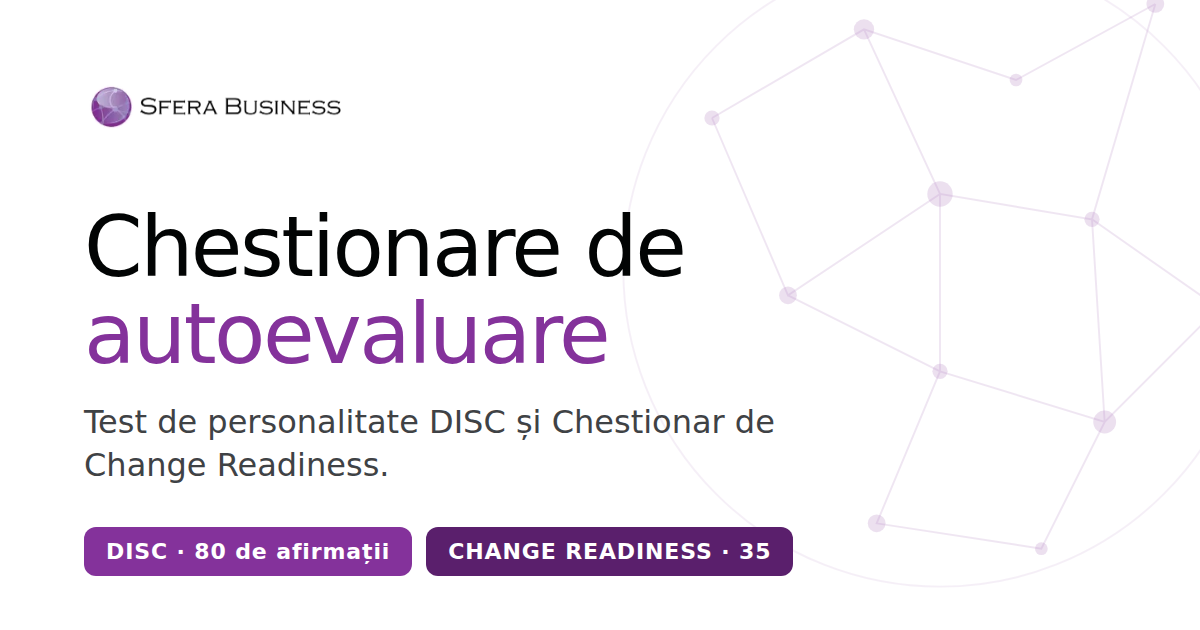
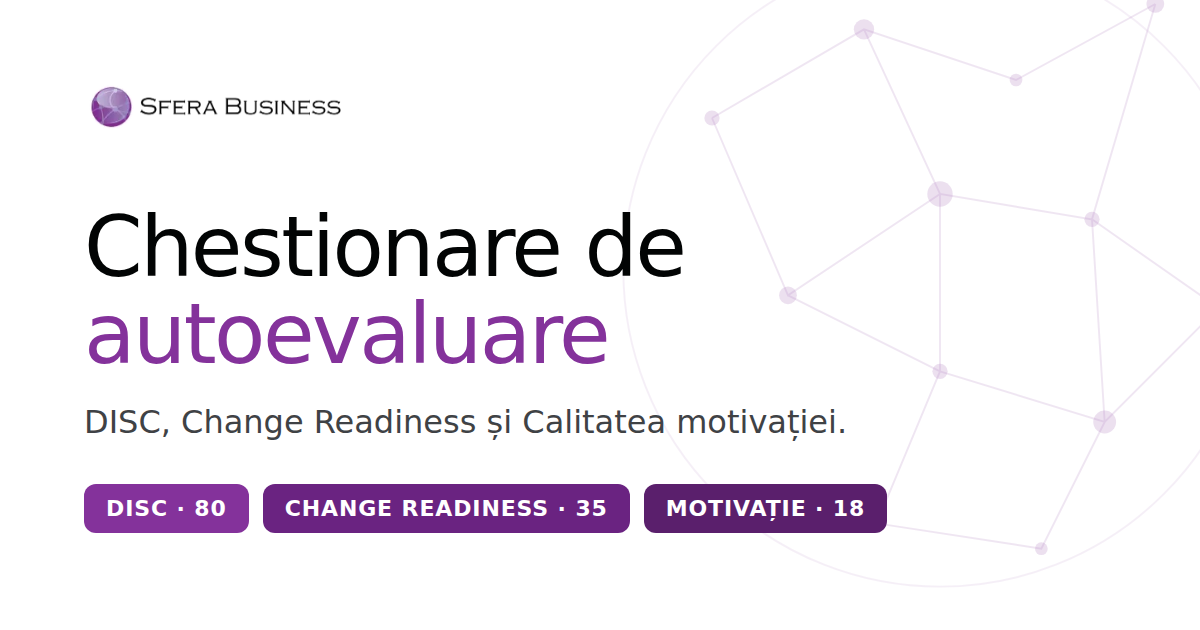
Add files via upload

Changed region(s): [[0.0617, 0.7238, 0.74, 0.9349], [0.0617, 0.6333, 0.7092, 0.6937]]

diff --git a/index.html b/index.html
@@ -5,10 +5,10 @@
 <meta name="viewport" content="width=device-width, initial-scale=1, viewport-fit=cover">
 <meta name="theme-color" content="#ffffff">
 <meta name="robots" content="noindex, nofollow">
-<meta name="description" content="Chestionare de autoevaluare Sfera Business: testul de personalitate DISC și chestionarul de Change Readiness.">
+<meta name="description" content="Chestionare de autoevaluare Sfera Business: DISC, Change Readiness și Calitatea motivației.">
 <meta property="og:type" content="website">
 <meta property="og:title" content="Chestionare de autoevaluare · Sfera Business">
-<meta property="og:description" content="Test de personalitate DISC și Chestionar de Change Readiness. Câte o afirmație pe pagină, cu rezultatele afișate imediat.">
+<meta property="og:description" content="DISC, Change Readiness și Calitatea motivației. Câte o afirmație pe pagină, cu rezultatele afișate imediat.">
 <meta property="og:image" content="https://adrianflorian.github.io/chestionare/og.png">
 <meta property="og:image:width" content="1200">
 <meta property="og:image:height" content="630">
@@ -280,9 +280,29 @@ footer.foot a:hover{color:var(--purple-dark);text-decoration:underline}
 }
 
 /* ---------- homepage ---------- */
-.home{text-align:center;max-width:880px;margin:0 auto}
+.home{text-align:center;max-width:1080px;margin:0 auto}
+body[data-screen=home] .app{max-width:1140px}
+/* coach */
+.coach{display:flex;align-items:center;gap:26px;max-width:760px;margin:0 auto 40px;text-align:left}
+.coach-photo{flex:none;position:relative;width:128px;height:128px;border:0;padding:0;background:none;cursor:pointer;border-radius:50%}
+.coach-photo img{width:128px;height:128px;border-radius:50%;object-fit:cover;display:block;box-shadow:0 0 0 5px #fff,0 0 0 8px var(--purple),0 14px 34px rgba(132,50,155,.28);transition:transform .35s cubic-bezier(.3,1.6,.5,1)}
+.coach-photo .tag{position:absolute;right:-10px;bottom:2px;background:#fff;border-radius:99px;font-size:20px;line-height:1;padding:6px 7px;box-shadow:0 4px 14px rgba(0,0,0,.14)}
+@media (hover:hover){.coach-photo:hover img{transform:rotate(-6deg) scale(1.04)}}
+.coach-photo.wiggle img{animation:wig .5s ease}
+@keyframes wig{0%,100%{transform:rotate(0)}25%{transform:rotate(-8deg)}60%{transform:rotate(6deg)}}
+.bubble{position:relative;flex:1;background:#fff;border:1px solid var(--line);border-radius:20px;padding:18px 22px 14px;box-shadow:0 12px 40px rgba(132,50,155,.09)}
+.bubble::before{content:"";position:absolute;left:-9px;top:50%;width:16px;height:16px;background:#fff;border-left:1px solid var(--line);border-bottom:1px solid var(--line);transform:translateY(-50%) rotate(45deg)}
+.bubble .qt{font-size:19px;line-height:1.4;color:var(--ink);font-weight:500;margin:0;min-height:2.8em;transition:opacity .25s}
+.bubble .qt.fade{opacity:0}
+.bubble .who{display:flex;align-items:center;justify-content:space-between;gap:12px;margin-top:10px;flex-wrap:wrap}
+.bubble .who b{color:var(--purple);font-size:14px}
+.bubble .who small{display:block;color:var(--muted);font-size:12px;font-weight:400}
+.next-q{border:1.5px solid var(--purple-200);background:var(--purple-50);color:var(--purple-deep);font-size:13px;font-weight:600;border-radius:99px;padding:6px 14px;cursor:pointer;transition:background .2s}
+@media (hover:hover){.next-q:hover{background:var(--purple-100)}}
+.next-q:focus-visible,.coach-photo:focus-visible{outline:3px solid rgba(132,50,155,.35);outline-offset:3px}
 .home .lead{margin-bottom:38px}
-.tests{display:grid;grid-template-columns:1fr 1fr;gap:20px;text-align:left}
+.tests{display:grid;grid-template-columns:repeat(3,1fr);gap:20px;text-align:left}
+@media (max-width:960px){.tests{grid-template-columns:1fr 1fr}}
 .tcard{display:flex;flex-direction:column;background:#fff;border:1px solid var(--line);border-radius:22px;overflow:hidden;text-decoration:none;color:var(--text);box-shadow:0 12px 40px rgba(132,50,155,.07);transition:transform .2s,box-shadow .2s,border-color .2s}
 @media (hover:hover){.tcard:hover{transform:translateY(-3px);box-shadow:0 18px 50px rgba(132,50,155,.14);border-color:var(--purple-200)}
 .tcard:hover .btn{background:var(--purple-dark);border-color:var(--purple-dark)}.tcard:hover .tri{transform:translateX(3px)}}
@@ -306,6 +326,10 @@ footer.foot a:hover{color:var(--purple-dark);text-decoration:underline}
 .privacy{font-size:13px;color:var(--muted);margin:28px auto 0;display:flex;justify-content:center;align-items:center;gap:8px}
 .privacy svg{color:var(--purple)}
 @media (max-width:720px){
+  .coach{flex-direction:column;gap:18px;text-align:center;margin-bottom:30px}
+  .bubble::before{left:50%;top:-9px;transform:translateX(-50%) rotate(135deg)}
+  .bubble .who{justify-content:center}
+  .bubble .qt{font-size:17px}
   .tests{grid-template-columns:1fr;gap:14px}
   .tviz{height:92px}
   .tviz .dash{top:46px}
@@ -344,6 +368,20 @@ footer.foot a:hover{color:var(--purple-dark);text-decoration:underline}
       <h1 id="homeTitle">Alegeți <span class="accent">chestionarul</span></h1>
       <p class="lead">Câte o afirmație pe pagină, cu rezultatele afișate imediat la final.</p>
 
+      <div class="coach">
+        <button class="coach-photo" id="coachPhoto" type="button" aria-label="Încă un citat de la Cătălin">
[1 lines of base64/hex data omitted]
+          <span class="tag" aria-hidden="true">💬</span>
+        </button>
+        <div class="bubble" aria-live="polite">
+          <p class="qt" id="quote">„Nu există răspunsuri greșite. Există doar răspunsuri date înainte de cafea.” ☕</p>
+          <div class="who">
+            <div><b>— Cătălin Stancu</b><small>Citate inventate, cu drag. Orice asemănare cu un training real e pur întâmplătoare.</small></div>
+            <button class="next-q" id="nextQuote" type="button">Încă unul ↻</button>
+          </div>
+        </div>
+      </div>
+
       <div class="tests">
         <a class="tcard" href="disc/" data-key="sfera-disc-v1" data-n="80">
           <div class="tviz" aria-hidden="true">
@@ -363,7 +401,7 @@ footer.foot a:hover{color:var(--purple-dark);text-decoration:underline}
           </div>
         </a>
 
-        <a class="tcard" href="change-readiness/" data-key="sfera-cr-v1" data-n="35">
+        <a class="tcard" href="change-readiness/" data-key="sfera-cr-v1" data-n="35" data-formal="1">
           <div class="tviz cr" aria-hidden="true">
             <span class="dash"></span>
             <i style="height:70px;opacity:.55"></i><i style="height:88px;opacity:.9"></i><i style="height:52px;opacity:.45"></i><i style="height:96px"></i><i style="height:62px;opacity:.6"></i><i style="height:80px;opacity:.8"></i><i style="height:44px;opacity:.4"></i>
@@ -375,6 +413,24 @@ footer.foot a:hover{color:var(--purple-dark);text-decoration:underline}
             <div class="tmeta">
               <span><svg width="16" height="16" viewBox="0 0 24 24" fill="none" stroke="currentColor" stroke-width="2" stroke-linecap="round" stroke-linejoin="round"><path d="M9 6h11M9 12h11M9 18h11M4 6h.01M4 12h.01M4 18h.01"/></svg>35 de afirmații</span>
               <span><svg width="16" height="16" viewBox="0 0 24 24" fill="none" stroke="currentColor" stroke-width="2" stroke-linecap="round" stroke-linejoin="round"><circle cx="12" cy="12" r="9"/><path d="M12 7v5l3 2"/></svg>5–7 minute</span>
+            </div>
+            <div class="tstatus"><span class="mini"><b></b></span><span class="stxt"></span></div>
+            <span class="btn primary"><span class="cta">Începeți chestionarul</span><span class="tri"></span></span>
+          </div>
+        </a>
+
+        <a class="tcard" href="motivatie/" data-key="sfera-mot-v1" data-n="18" data-formal="1">
+          <div class="tviz cr" aria-hidden="true">
+            <span class="dash"></span>
+            <i style="height:92px"></i><i style="height:80px;opacity:.85"></i><i style="height:70px;opacity:.72"></i><i style="height:52px;opacity:.58"></i><i style="height:60px;opacity:.48"></i><i style="height:30px;opacity:.35"></i>
+          </div>
+          <div class="tbody">
+            <div class="tkicker">Motivație</div>
+            <h2>Calitatea motivației</h2>
+            <p>De ce vă implicați în munca de acum. Profil pe 6 tipuri de motivație, conform teoriei auto-determinării.</p>
+            <div class="tmeta">
+              <span><svg width="16" height="16" viewBox="0 0 24 24" fill="none" stroke="currentColor" stroke-width="2" stroke-linecap="round" stroke-linejoin="round"><path d="M9 6h11M9 12h11M9 18h11M4 6h.01M4 12h.01M4 18h.01"/></svg>18 afirmații</span>
+              <span><svg width="16" height="16" viewBox="0 0 24 24" fill="none" stroke="currentColor" stroke-width="2" stroke-linecap="round" stroke-linejoin="round"><circle cx="12" cy="12" r="9"/><path d="M12 7v5l3 2"/></svg>3–5 minute</span>
             </div>
             <div class="tstatus"><span class="mini"><b></b></span><span class="stxt"></span></div>
             <span class="btn primary"><span class="cta">Începeți chestionarul</span><span class="tri"></span></span>
@@ -400,7 +456,7 @@ footer.foot a:hover{color:var(--purple-dark);text-decoration:underline}
     const n = s.answers.filter(v => v != null).length;
     if (n === 0) return;
     const st = card.querySelector(".tstatus"), cta = card.querySelector(".cta");
-    const formal = card.dataset.key === "sfera-cr-v1";
+    const formal = card.dataset.formal === "1";
     st.classList.add("show");
     st.querySelector(".mini b").style.width = (n / total * 100) + "%";
     if (s.done && n === total) {
@@ -411,6 +467,33 @@ footer.foot a:hover{color:var(--purple-dark);text-decoration:underline}
       cta.textContent = formal ? "Continuați" : "Continuă";
     }
   });
+})();
+
+(function(){
+  /* invented, affectionate quotes, clearly labelled as such on the page */
+  const QUOTES = [
+    "„Nu există răspunsuri greșite. Există doar răspunsuri date înainte de cafea.” ☕",
+    "„Schimbarea e singura constantă. În afară de pauza de prânz, care e sfântă.” 🥪",
+    "„Dacă ți-a ieșit «Dominant», felicitări. Acum lasă-i și pe ceilalți să vorbească.” 🎤",
+    "„Toleranța la ambiguitate se antrenează. Recomand instrucțiunile de montaj de la mobilă.” 🪛",
+    "„Motivația intrinsecă e când completezi chestionarul fără să te roage nimeni. Deci nu azi.” 😄",
+    "„Fii stabil ca un Wi-Fi bun: nu cădea exact când e mai mare nevoie de tine.” 📶",
+    "„Adaptabilitate înseamnă să zâmbești când ședința de 30 de minute ține două ore.” ⏰",
+    "„Sinceritatea e primul pas. Al doilea e să nu bifezi «5» la toate.” ✅",
+    "„Un lider adevărat știe când să vorbească și când să apese «Următoarea».” ▶",
+    "„Optimismul e să crezi că termini toate trei chestionarele până la cafea.” 🚀"
+  ];
+  const q = document.getElementById("quote"), photo = document.getElementById("coachPhoto");
+  let i = Math.floor(Math.random() * QUOTES.length);
+  q.textContent = QUOTES[i];
+  function nextQuote(){
+    i = (i + 1 + Math.floor(Math.random() * (QUOTES.length - 1))) % QUOTES.length;
+    q.classList.add("fade");
+    setTimeout(() => { q.textContent = QUOTES[i]; q.classList.remove("fade"); }, 220);
+    photo.classList.remove("wiggle"); void photo.offsetWidth; photo.classList.add("wiggle");
+  }
+  document.getElementById("nextQuote").addEventListener("click", nextQuote);
+  photo.addEventListener("click", nextQuote);
 })();
 </script>
 </body>

diff --git a/README.md b/README.md
@@ -7,9 +7,10 @@ Chestionare de autoevaluare, ca wizard-uri web (doar frontend): o afirmație pe 
 | Pagina principală | https://adrianflorian.github.io/chestionare/ |
 | Test de personalitate DISC (80 de afirmații, 4 dimensiuni) | https://adrianflorian.github.io/chestionare/disc/ |
 | Chestionar de Change Readiness (35 de afirmații, 7 scale) | https://adrianflorian.github.io/chestionare/change-readiness/ |
+| Calitatea motivației (18 afirmații, 6 tipuri de motivație) | https://adrianflorian.github.io/chestionare/motivatie/ |
 
 Demo cu răspunsuri aleatorii: adăugați `#demo` la adresa oricărui chestionar.
 
-Structură: `index.html` (pagina principală), `disc/index.html`, `change-readiness/index.html`. Fiecare chestionar este un singur fișier HTML, fără dependențe externe.
+Structură: `index.html` (pagina principală), `disc/index.html`, `change-readiness/index.html`, `motivatie/index.html`. Chestionarele sunt independente: fiecare are propriile afirmații, propriul calcul și propriile rezultate salvate. Fiecare chestionar este un singur fișier HTML, fără dependențe externe.
 
 Răspunsurile rămân doar în browserul utilizatorului (localStorage). Nimic nu este trimis către un server. Paginile sunt marcate `noindex`.
